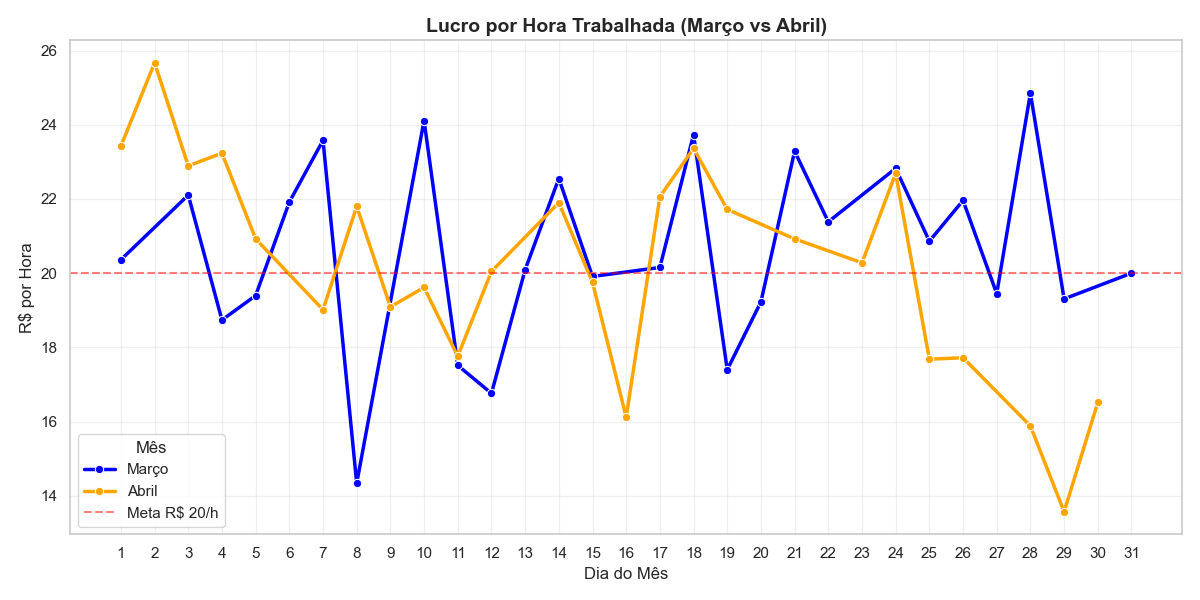
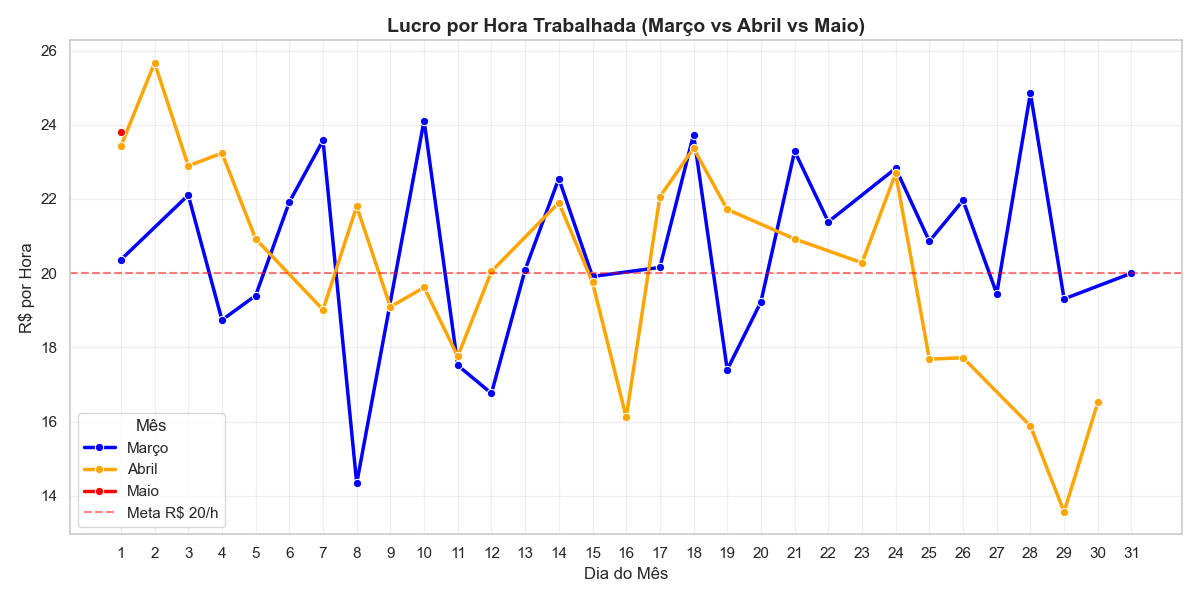
ajustando graficos com os novos dados do mes de maio

Changed region(s): [[0.3083, 0.03, 0.74, 0.06], [0.0617, 0.69, 0.1542, 0.84]]

diff --git a/analise_relatorio_logistica.py b/analise_relatorio_logistica.py
@@ -13,7 +13,7 @@ try:
     df_m= pd.read_csv('relatorio_marco.csv', sep=';')#lendo o arquivo csv e transformando em data frame
     
 except FileNotFoundError: #erro de arquivo nao encontrado
-    print("Erro: O arquivo 'relatorio_abril.csv' não foi encontrado!")
+    print("Erro: Algum arquivo csv não foi encontrado!")
     exit() # encerra o script
 except Exception as excecao: #erro de excecao
     print(f"Ocorreu um erro inesperado ao ler o arquivo: {excecao}")
@@ -65,23 +65,7 @@ except Exception as excecao: #mensagem de erro caso de erro no processo de limpe
     print(f"Erro na limpeza dos dados: {excecao}")
 
 
-query_top_dia = """
-    SELECT 
-        data_entregas, 
-        SUM(taxa) AS lucro_total, 
-        COUNT(*) AS quantidade_total
-    FROM entregas
-    GROUP BY data_entregas;
-    """
 
-query_volume_bairro = """
-SELECT 
-    bairro, 
-    COUNT(*) AS quantidade_entregas
-FROM entregas
-GROUP BY bairro
-ORDER BY quantidade_entregas DESC;
-"""#filtrando a contagem de entregas em cada respectivo bairro no mes
 
 
 
@@ -89,7 +73,7 @@ try: #funçao para validar se o codigo dentro desse parametro vai rodar sem dar 
         
     df_consolidado = pd.concat([df_m, df_a,df_maio], ignore_index=True) #juntando os dois dataframes com a funçao concat
     
-    traducao_meses = {'March': 'Março','April': 'Abril','May':'Maio', 'June': 'Junho'} #dicionario com os meses e suas traduçoes para pt-br
+    traducao_meses = {'March': 'Março','April': 'Abril','May': 'Maio','June': 'Junho'} #dicionario com os meses e suas traduçoes para pt-br
     
     df_linha = df_consolidado.groupby(['data_entregas']).agg({ 
         'taxa': 'sum', 
@@ -109,12 +93,12 @@ try: #funçao para validar se o codigo dentro desse parametro vai rodar sem dar 
     sns.set_theme(style="whitegrid")
 
     sns.lineplot(data=df_linha, x='dia_do_mes', y='lucro_por_hora', hue='mes', #grafico de linha usando como base os dados do dia do mes e o lucro por hora de acordo com os dois meses
-                 marker='o', linewidth=2.5, palette={'Março': 'blue', 'Abril': 'orange'})
+                 marker='o', linewidth=2.5, palette={'Março': 'blue', 'Abril': 'orange', 'Maio': 'red'})
 
    
     plt.axhline(y=20, color='red', linestyle='--', alpha=0.5, label='Meta R$ 20/h')
 
-    plt.title('Lucro por Hora Trabalhada (Março vs Abril)', fontsize=14, fontweight='bold')
+    plt.title('Lucro por Hora Trabalhada (Março vs Abril vs Maio)', fontsize=14, fontweight='bold')
     plt.xlabel('Dia do Mês')
     plt.ylabel('R$ por Hora')
     plt.xticks(range(1, 32))
@@ -129,6 +113,23 @@ except Exception as e:
     
     print(f"Erro no gráfico de lucro por hora: {e}")
 
+query_top_dia = """
+    SELECT 
+        data_entregas, 
+        SUM(taxa) AS lucro_total, 
+        COUNT(*) AS quantidade_total
+    FROM entregas
+    GROUP BY data_entregas;
+    """
+
+query_volume_bairro = """
+SELECT 
+    bairro, 
+    COUNT(*) AS quantidade_entregas
+FROM entregas
+GROUP BY bairro
+ORDER BY quantidade_entregas DESC;
+"""#filtrando a contagem de entregas em cada respectivo bairro no mes
 
 with sqlite3.connect('logistica_pessoal.db') as conn:
 
@@ -150,12 +151,13 @@ else:
         
         df_marco = df_top[df_top['mes_aux'] == 3].copy().sort_values('data_entregas') #dataframe março quando o numero do mes for igual a 3 organizado por data
         df_abril = df_top[df_top['mes_aux'] == 4].copy().sort_values('data_entregas')#dataframe abril quando o numero do mes for igual a 4 organizado por data
-
+        df_maio = df_top[df_top['mes_aux']==5].copy().sort_values('data_entregas')
         
         df_marco['data_formatada'] = df_marco['data_entregas'].dt.strftime('%d/%m') #dataframe março com coluna data formatada com extraçao apenas de dia e mes
         df_abril['data_formatada'] = df_abril['data_entregas'].dt.strftime('%d/%m') #dataframe março com coluna data formatada com extraçao apenas de dia e mes
+        df_maio['data_formatada'] = df_maio['data_entregas'].dt.strftime('%d/%m') 
 
-        fig, (ax1, ax2) = plt.subplots(2, 1, figsize=(15, 12))
+        fig, (ax1, ax2, ax3) = plt.subplots(3, 1, figsize=(15, 12))
         sns.set_theme(style="darkgrid")
         #cada barra a ser exibida vai receber como parametro a data formatada e o lucro daquele dia
         barras_m = sns.barplot(data=df_marco, x='data_formatada', y='lucro_total', palette="viridis", ax=ax1, hue='data_formatada', legend=False)
@@ -182,6 +184,21 @@ else:
         ax2.set_title('LUCRO TOTAL DIÁRIO - ABRIL/2026', fontsize=12, fontweight='bold')
         ax2.set_ylabel('Lucro Total (R$)')
         ax2.set_xlabel('')
+
+
+        barras_maio = sns.barplot(data=df_maio, x='data_formatada', y='lucro_total', palette="viridis", ax=ax3, hue='data_formatada', legend=False)
+        
+        #para cada barra, lucro, quantidade em um compactado da variavel barras, o lucro total no dataframe e a quantidade total no dataframe
+        for barra, lucro, qtd in zip(barras_maio.patches, df_maio['lucro_total'], df_maio['quantidade_total']):
+            ax3.annotate(f'R$ {int(lucro)}\n({qtd} entregas)', #nota em cima da barra mostrando o lucro e quantidade de entregas na barra
+                        xy=(barra.get_x() + barra.get_width()/2, barra.get_height()),
+                        xytext=(0, 2), textcoords="offset points",
+                        ha='center', va='bottom', fontsize=7, fontweight='bold', color='black')
+
+        ax3.set_title('LUCRO TOTAL DIÁRIO - MAIO/2026', fontsize=12, fontweight='bold') #titulo do grafico
+        ax3.set_ylabel('Lucro Total (R$)') #descriçao lateral do grafico
+        ax3.set_xlabel('')
+
         sns.despine()# Remove as bordas desnecessárias
         plt.tight_layout()
         plt.subplots_adjust(hspace=0.3) #ajuste de tamanho do espaço entre o grafico de cima e o debaixo para nao se sobreporem